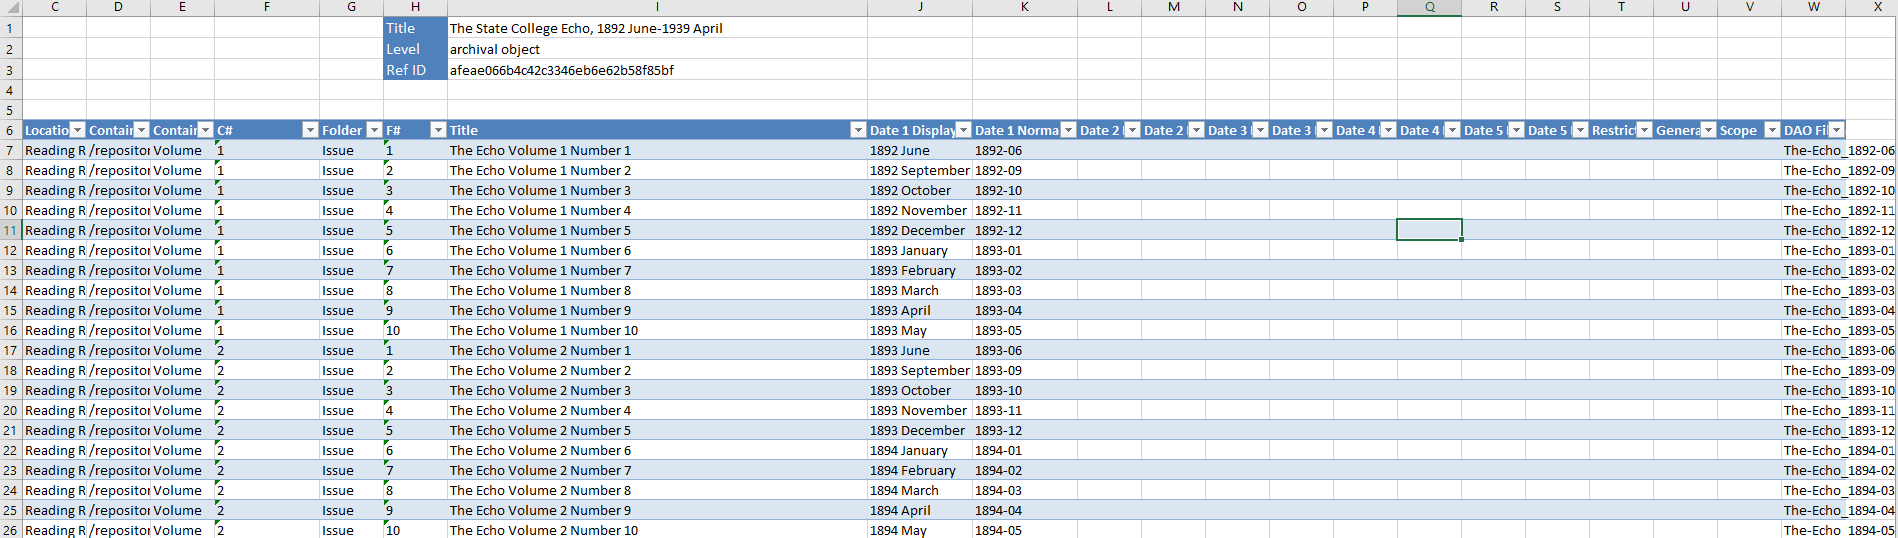
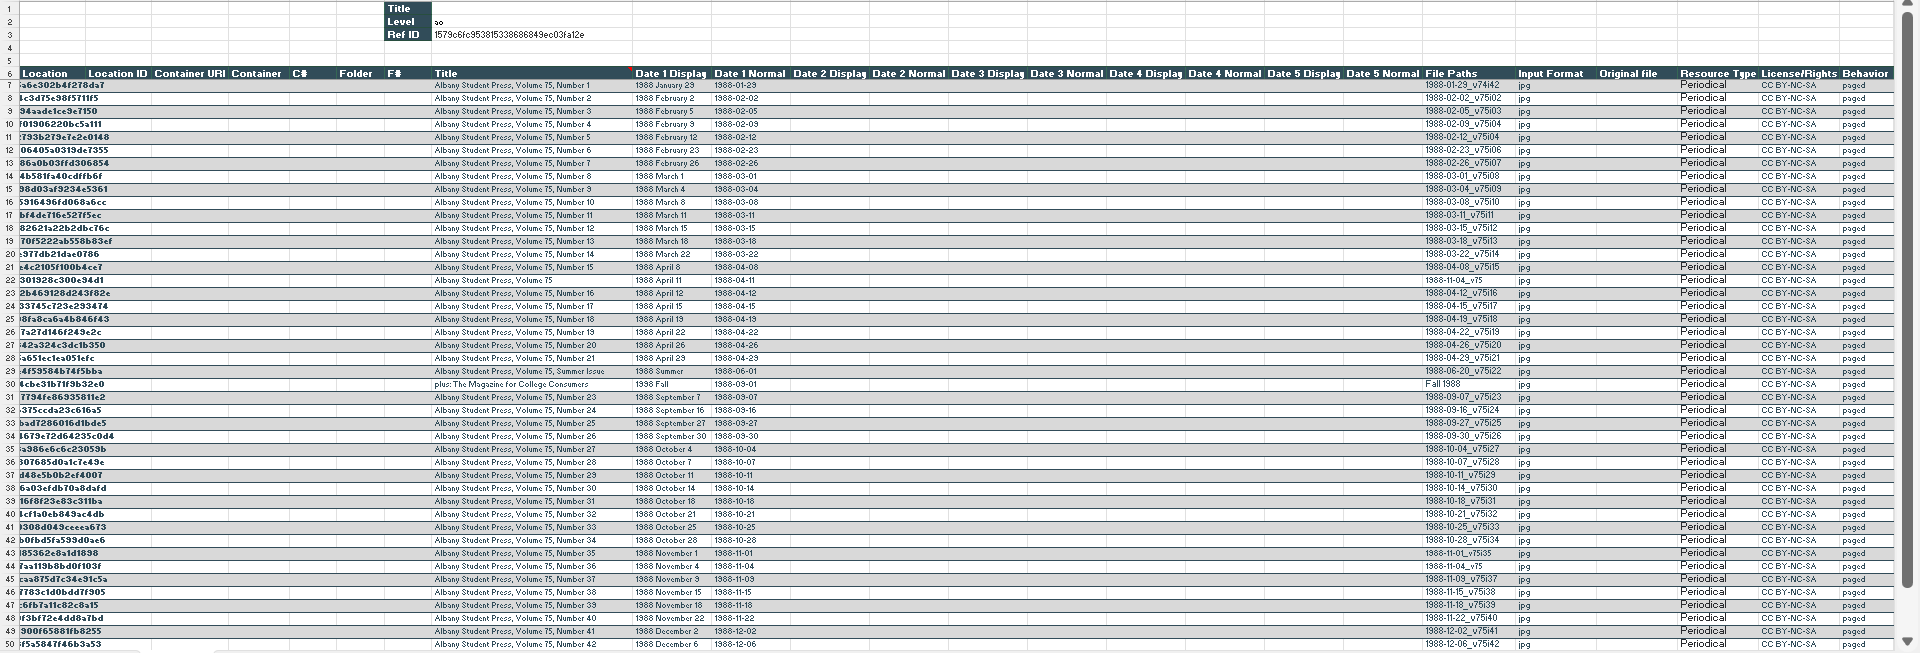
updated language on main page to reflect new processes and systems

diff --git a/templates/root.html b/templates/root.html
@@ -38,6 +38,7 @@
       <li>Digitized materials have already been accessioned and processed, so they just need to be <a href="/ingest">ingested into the backlog or processing storage.</a>
         <ul>
           <li>Digitized files that are not accessioned will be logged in the <span class="code">DigitizationExtentTracker.xlsx</span> at <span class="code">\\Lincoln\Library\SPE_Automated\DigitizationExtentTracker</span> so we can track the size and quantity of what we're digitizing.</li>
+      <li>For more information on ingesting, please see <a href="https://albany.atlassian.net/wiki/spaces/SCA/pages/47808567/Ingesting+Digital+Materials">these instructions</a>, or <a href="https://albany.atlassian.net/wiki/spaces/SCA/pages/1210941502/Ingesting+Guidance+for+Students">this guide for students</a>.</li>
         </ul>
       </li>
     </ul>
@@ -90,14 +91,20 @@ backlog/
           <li>There is an option during final packaging to keep the masters files in the processing package instead of files in the <span class="code">SIP</span>. This typically for born-digital materials when certain files may not be retained after appraisal.</li>
         </ul>
       </li>
-      <li>The <a href="/derivatives">derivatives</a> tab automatically creates derivative access files.
+      <li>The <a href="/derivatives">Image Derivatives</a> tab automatically creates derivative access files.
         <ul>
-          <li>This currently only works for images and PDFs but we can add A/V converstions.</li>
-          <li>JPG and PNG derivatives create single derivative images for each file.</li>
-          <li>PDF derivatives create a single PDF for all image files in a folder.</li>
+          <li>This tab currently works for all non-A/V material.</li>
+          <li>The outputs are the accepted formats for our IIIF system: jpg (preferable)and png (for higher resolution items, who need to retian their quality).</li>
+		  <li>You can also use this tab to make PDF derivatives of your material, though you will still need jpg or png derivatives for the Upload Process.</li>
         </ul>
       </li>
-      <li>The <a href="/ocr">OCR</a> tab will automatically OCR and embed text in PDFs.</li>
+	        <li>The <a href="/av_derivatives">A/V Derivatives</a> tab is meant for audio and video files.
+        <ul>
+          <li>This tab currently works for exclusively for A/V material.</li>
+          <li>The outputs are the accepted formats for our IIIF system: ogg and mp3 for audio, and webm for video.</li>
+        </ul>
+      </li>
+      <li>For more information on derivatives, please see <a href="https://albany.atlassian.net/wiki/spaces/SCA/pages/47811138/Creating+Derivatives">these instructions </a> or <a href="https://albany.atlassian.net/wiki/spaces/SCA/pages/1214021676/Derivative+Guidance+for+Students">this guiddance for students. </a></li>
     </ul>
 
     <div class="code">backlog/
@@ -128,19 +135,21 @@ backlog/
     │  │  ├─ metadata/ 
   </div>
 
-  <h3><li>Describing materials in ArchivesSpace and Uploading to Hyrax</li></h3>
+  <h3><li>Describing and Uploading materials in ArchivesSpace</li></h3>
 
     <h5>Single file upload</h5>
 
       <ul class="mb-3">
-        <li>Single files, such as PDF publications or scans of folders can be directly <a href="https://archives.albany.edu/concern/daos/new" target="_blank">uploaded into Hyrax</a>.</li>
-        <li>The <a href="/aspace">Connect to ASpace</a> tab will describe single files in ArchivesSpace, no spreadsheets needed!</li>
+        <li>Single files, such as PDF publications or scans of folders can be directly uploaded using the <a href="/upload">Single Upload Tab</a>.</li>
+        <li>The <a href="/recreate">Recreate DAO</a> tab will allow you to perform single steps of the Single Upload process, including OCR, generating thumbnail, and more.</li>
+		<li>The Single Upload tab also has an <a href="/add_items"> Add item records to Aspace</a> option that allows you to add item records to a preexisting object. This is helpful when only scanning part of a folder (which is not recommended but happens!).</li>
+		<li
       </ul>
 
     <h5>Batch upload</h5>
 
       <ul>
-        <li>Describing digital materials for bulk upload uses the same <a href="https://github.com/UAlbanyArchives/asInventory">asInventory</a> spreadsheets we use for data entry.</li>
+        <li>Describing digital materials for bulk upload uses the Bulk Upload Sheet, which can be found in the "Download empty sheet" under the "Bulk Upload" tab or in the <a href="/list"> List files and empty sheet</a> tab.</li>
         <li>Keep the speadsheets used during processing in the <span class="code">metadata</span> folder within the processing package.</li>
         <li>Processing packages include <span class="code">derivatives.txt</span> and <span class="code">masters.txt</span> files that list file names for easy copying and pasting into an asInventory spreadsheet.</li>
         <li>You can re-generate these lists after creating or editing derivatives using the <a href="/list">List tab</a>.</li>
@@ -149,21 +158,14 @@ backlog/
       <img class="m-3" width="900px" src="/static/daos.png" />
 
       <ol class="mb-3">
-        <li>List all files in the last column of an asInventory spreadsheet.</li>
-        <li>Use the <a href="buildHyraxUpload">Build Hyrax Upload</a> tab to prepare a bulk upload spreadsheet for Hyrax.
-          <ul>
-            <li>Add Resource Type and either Licenses or Rights Statements to all objects in the Hyrax upload .tsv file</li>
-          </ul>
-        </li>
-        <li><a href="https://wiki.albany.edu/display/SCA/Batch+Upload+to+Hyrax">Bulk upload into Hyrax</a> still requires the command line and server access.</li>
-        <li>Use the <a href="buildASpaceUpdate">Build ASpace Update</a> tab to update the asInventory spreadsheet with the Hyrax URIs after files have been uploaded to Hryax on the command line.</li>
-        <li>Use <a href="https://github.com/UAlbanyArchives/asInventory">asInventory</a> to add digital object records in ArchivesSpace that will link to the Hyrax URIs.</li>
+        <li>For more information on the Bulk Upload Process, please see <a href="https://albany.atlassian.net/wiki/spaces/SCA/pages/1336967208/Bulk+Upload+Instructions"> these instructions</a> or <a href="https://albany.atlassian.net/wiki/spaces/SCA/pages/1340178433/Upload+Glossary">this glossary</a>.</li>
+        <li>Use <a href="https://github.com/UAlbanyArchives/asInventory">asInventory</a> to add digital object records in ArchivesSpace that will link to the digital objects.</li>
       </ol>
 
   <h3><li>Packaging into permanent preservation storage</li></h3>
 
     <ul>
-      <li>Once processing is complete and all files have been uploaded into Hyrax and described in ArchivesSpace, finalize everything by packaging it into an "AIP" in permanent preservation storage.</li>
+      <li>Once processing is complete and all files have been uploaded and described in ArchivesSpace, finalize everything by packaging it into an "AIP" in permanent preservation storage.</li>
       <li>This step is needed after both single file and bulk uploads.</li>
       <li>Use the <a href="/package">Package AIP</a> tab to combine both the <span class="code">SIP</span> and the processing package into an <span class="code">AIP</span>.
         <ul>
